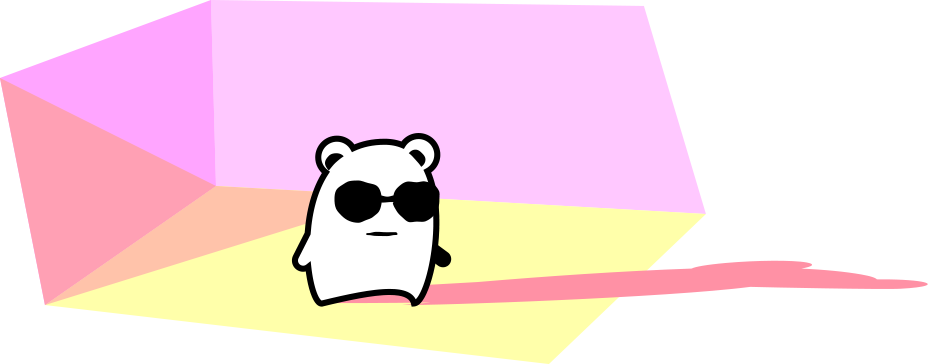
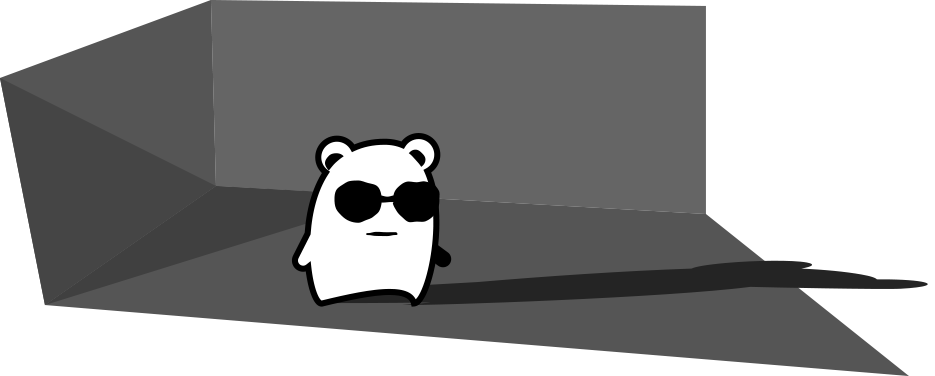
Add files via upload

diff --git a/style.css b/style.css
@@ -7,8 +7,8 @@
 body {
 	font-family: sans-serif;
 	font-size: 16px;
-	color: #333333;
-	background-color: #ffffd2;
+	color: #ffffff;
+	background-color: #282828;
 }
 
 #main-image{
@@ -23,7 +23,7 @@ body {
 
 a{
 	text-decoration: none;
-	color: #333333;
+	color: #ffffff;
 }
 
 header{
@@ -31,7 +31,7 @@ header{
 	display: flex;
 	justify-content: start;
 	height: 7rem;
-	background-color: #ffbec8;
+	background-color: #535353;
 }
 
 #logo{
@@ -51,14 +51,14 @@ ul{
 	flex-direction: row;
 	justify-content: flex-start;
 	width: 100%;
-	background-color: #ffbec8;
+	background-color: #535353;
 	opacity: 0.85;
 }
 
 ul li {
 	font-size: 80%;
 	list-style-type: none;
-	border-right: 1px solid #ff91a5;
+	border-right: 1px solid #282828;
 	flex:1;
 	width: 100%;
 }
@@ -74,7 +74,7 @@ ul a {
 }
 
 ul a:hover {
-	background: #ff91a5;
+	background: #535353;
 }
 
 main {
@@ -113,5 +113,5 @@ article{
 footer{
 	padding: 1.5rem;
 	text-align: center;
-	background-color: #ffbec8;
+	background-color: #535353;
 }
